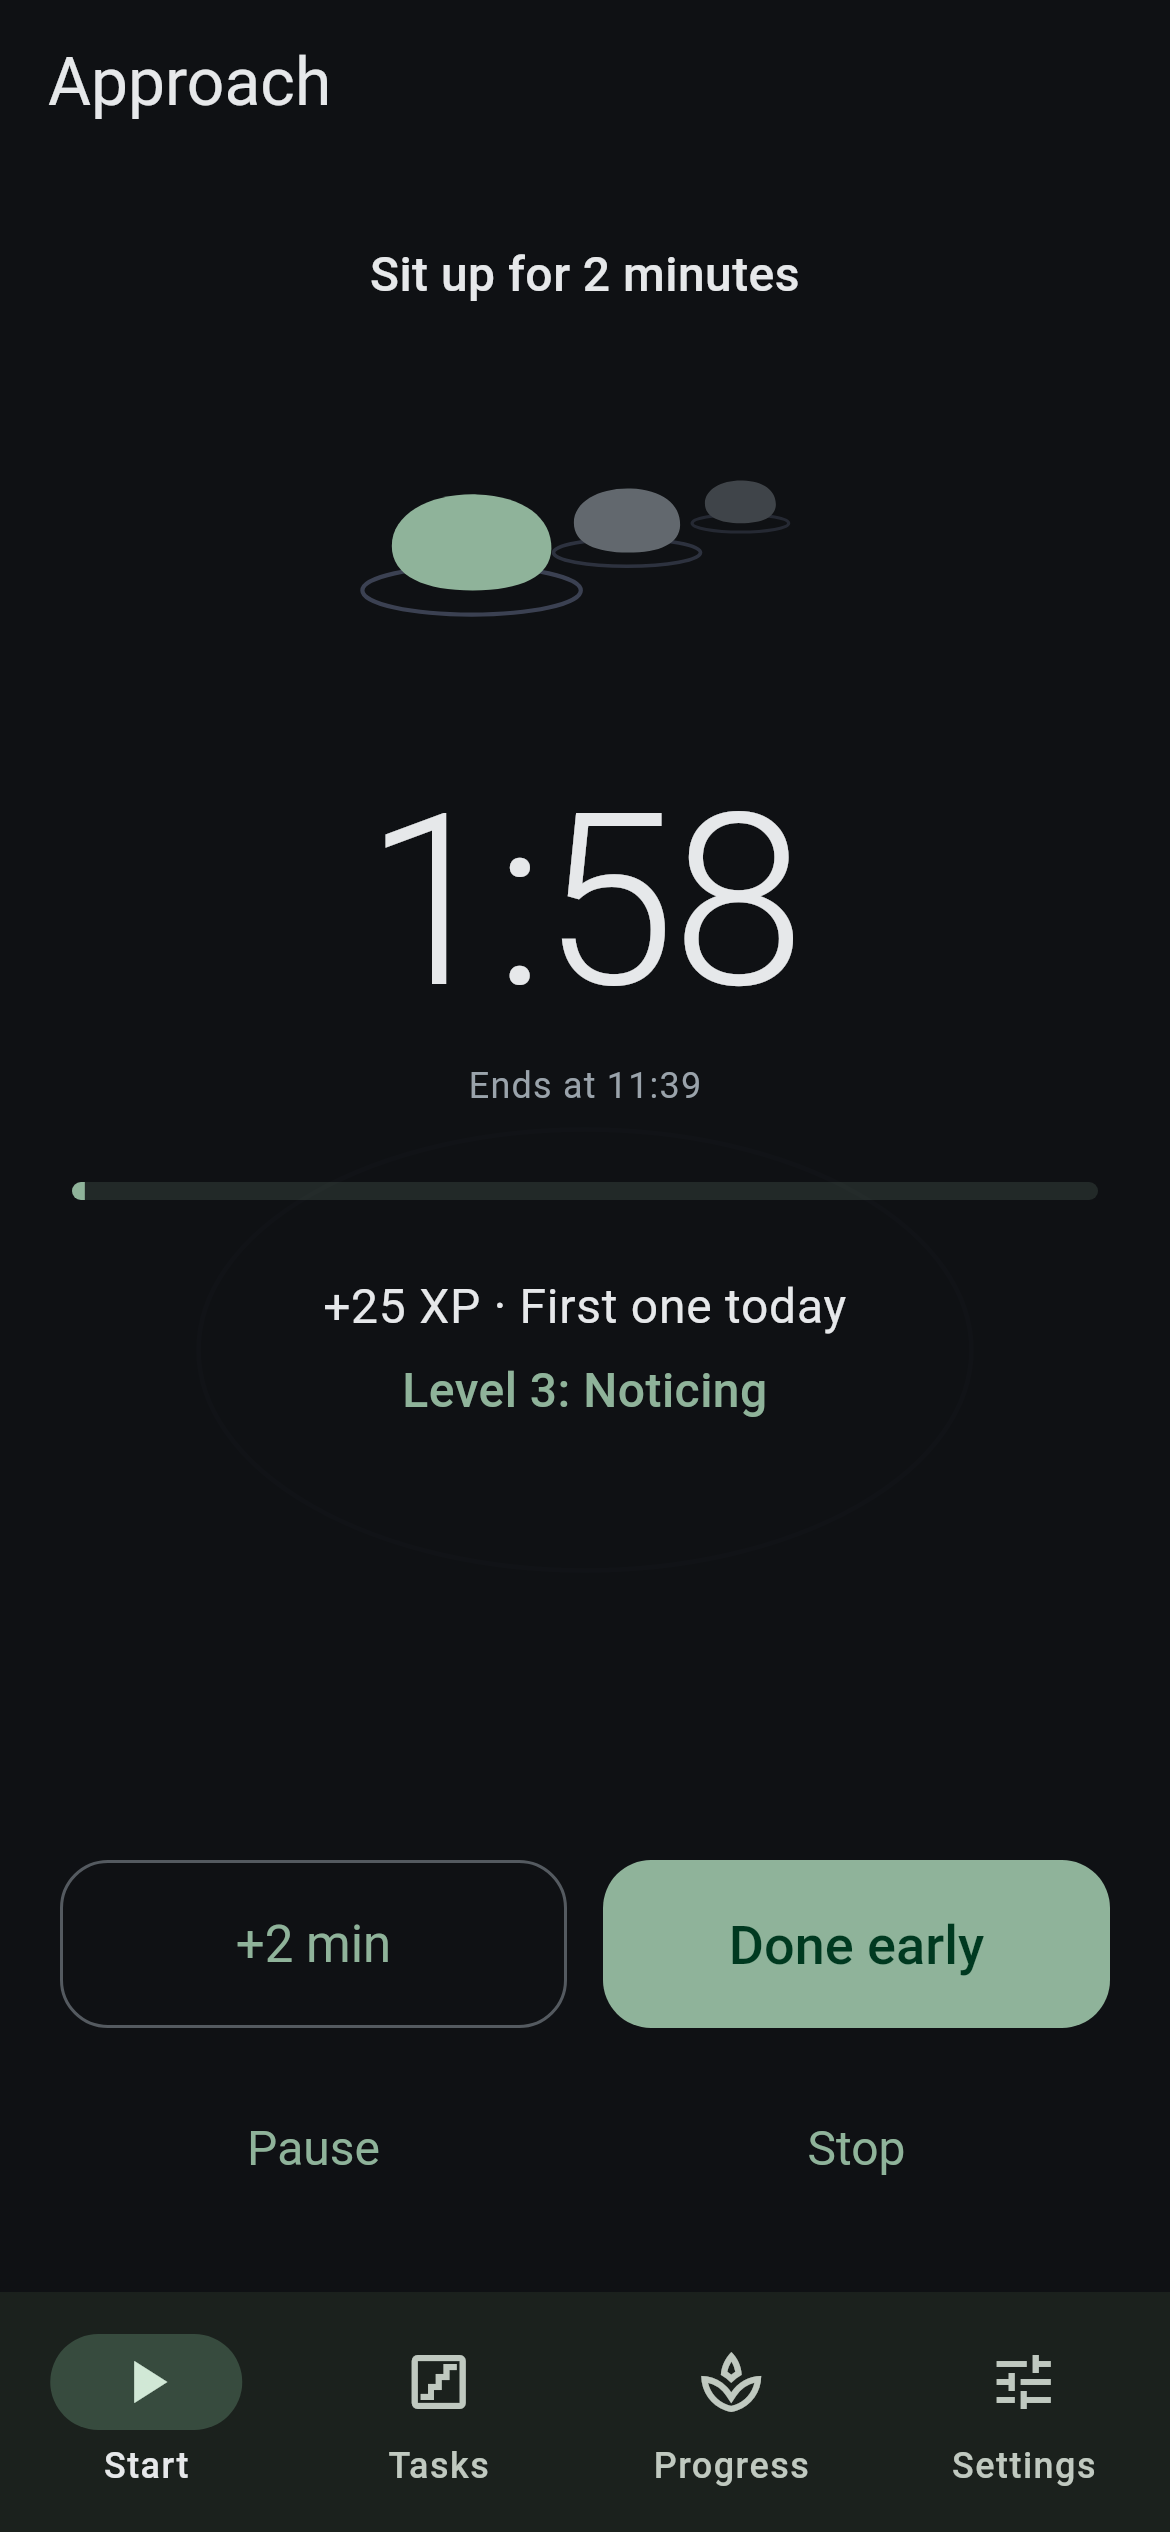
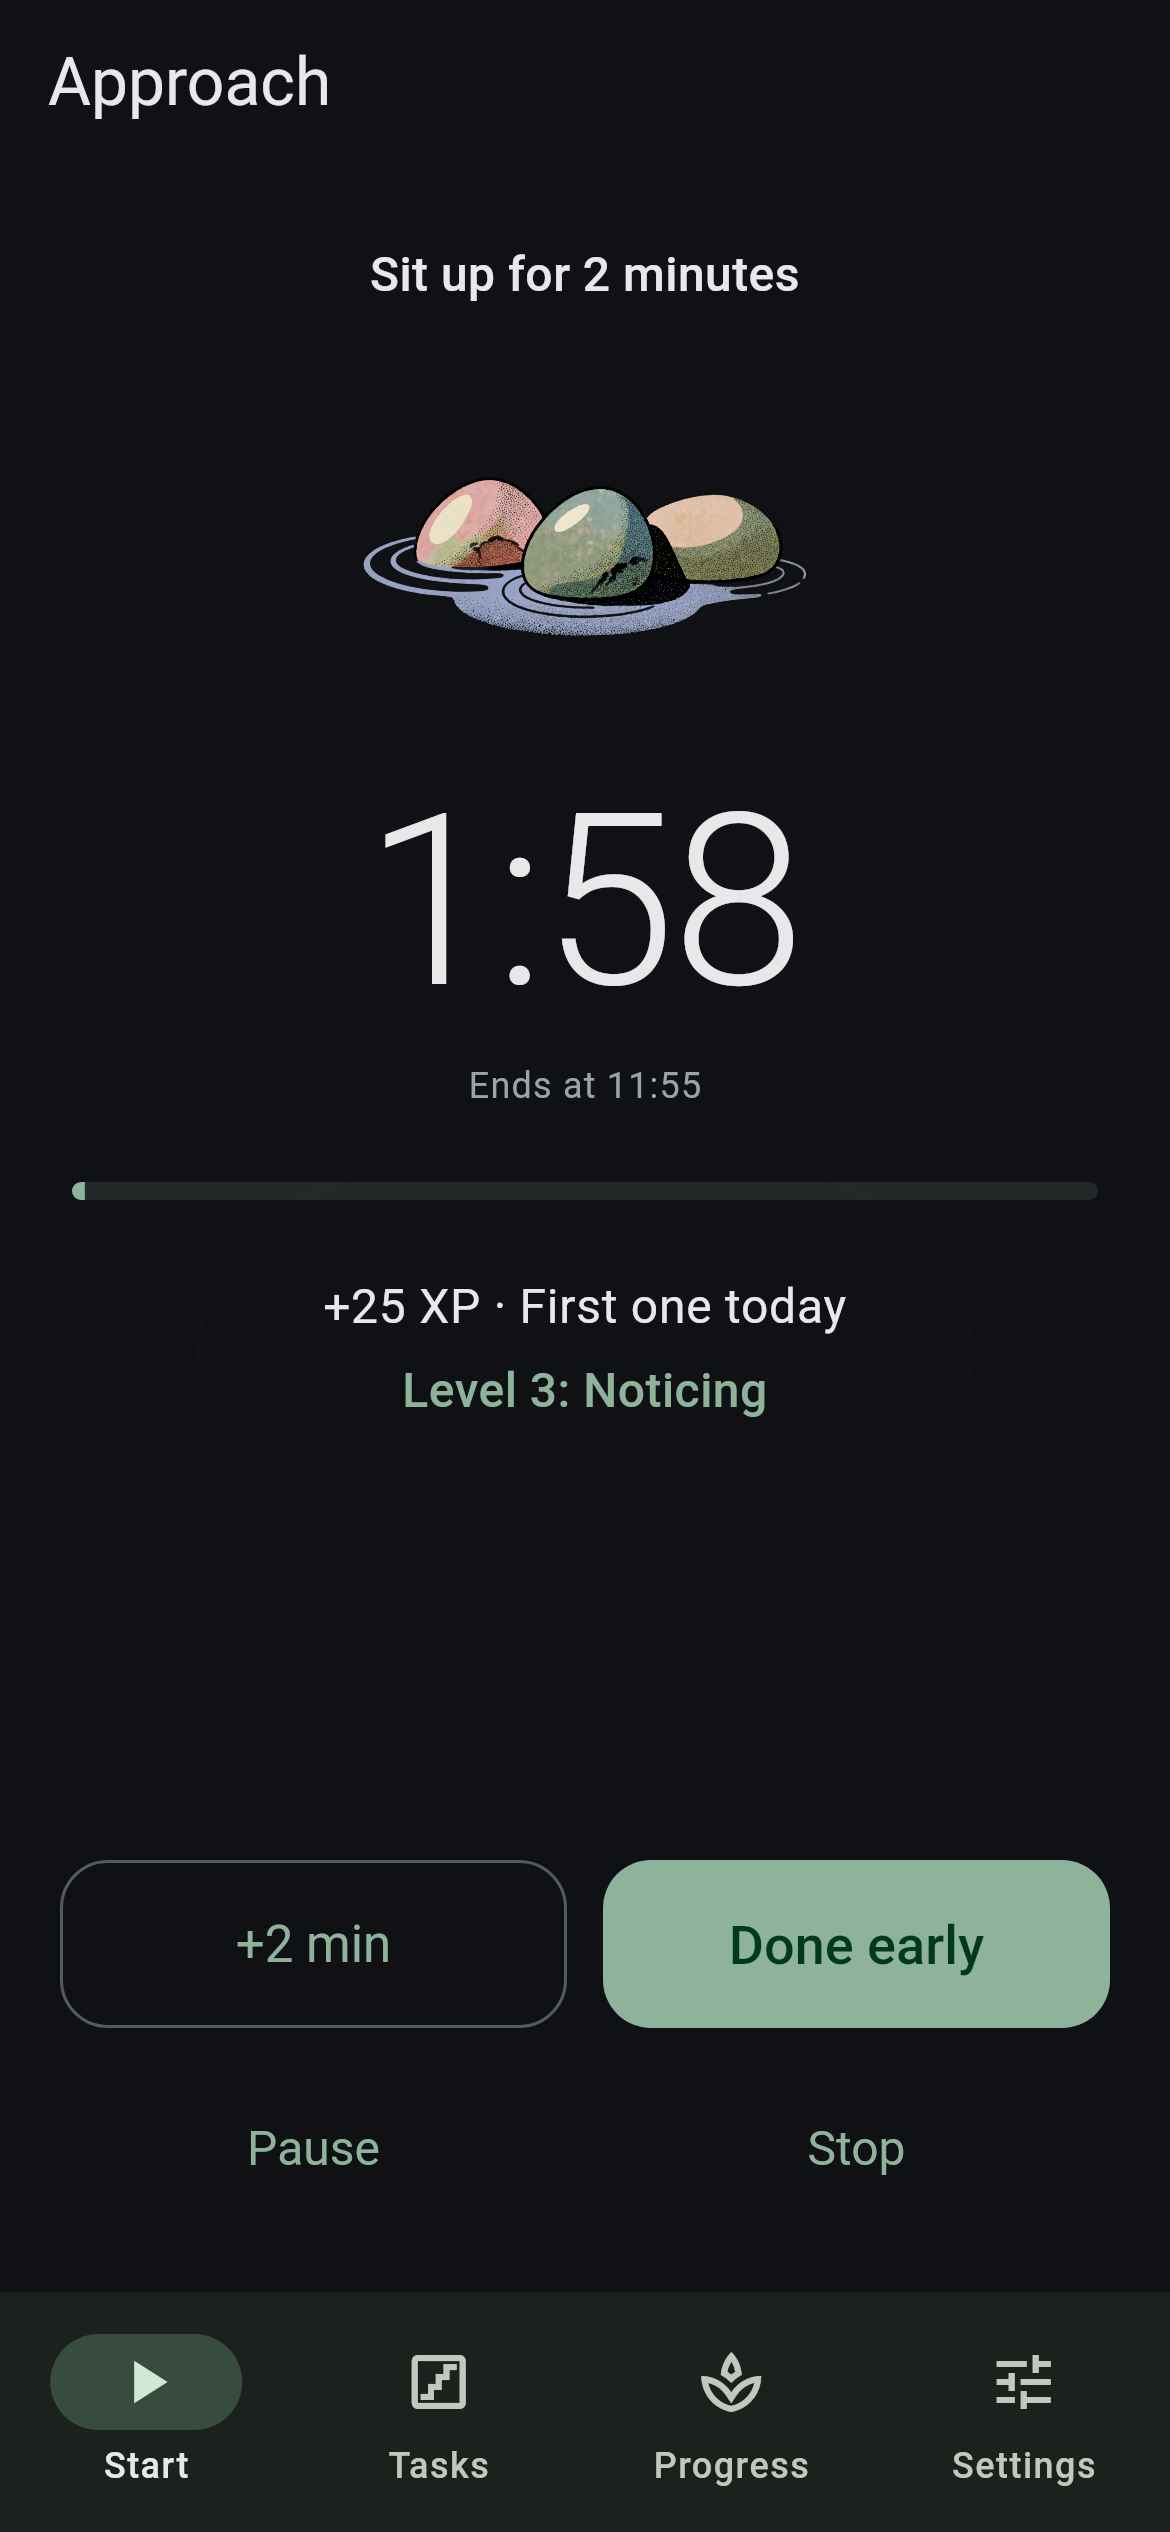
The running approach shows the painted pebbles
assets/images/pebbles.png, prepared by tool/brand/prepare_illustration.py
into the 3:2 illustration frame, replaces the vector path_ahead. Painted
illustrations keep their own colours on both themes.

Claude-Session: https://claude.ai/code/session_01PaoFeeh7YunX14WNd6GfeR

Changed region(s): [[0.3077, 0.1872, 0.6769, 0.2496]]

diff --git a/lib/ui/widgets/illustration.dart b/lib/ui/widgets/illustration.dart
@@ -17,8 +17,8 @@ enum Illustration {
   /// when a rest completes.
   stoneDawn('stone_dawn', 'A stone in still water with soft light on the horizon'),
 
-  /// A near stone and two further ones. The running approach.
-  pathAhead('path_ahead', 'Stepping stones leading away across still water'),
+  /// Three painted pebbles stepping away across water. The running approach.
+  pathAhead('path_ahead', 'Three pebbles stepping away across still water', raster: true),
 
   /// A thin moon over water, no stone. The running rest.
   restMoon('rest_moon', 'A thin moon over still water'),
@@ -45,14 +45,16 @@ enum Illustration {
   final String description;
   final String folder;
 
-  /// A PNG rather than an SVG (the icon is painted, not drawn in code).
+  /// A painted PNG rather than a vector. Paintings carry their own colours
+  /// (and an outline that reads on both backgrounds), so one file serves
+  /// both themes; see `tool/brand/prepare_illustration.py`.
   final bool raster;
 
   String get assetPath => 'assets/$folder/$file.${raster ? 'png' : 'svg'}';
 
-  /// The mark carries its own background, so it keeps the brand colours
-  /// whatever the theme. Everything else follows the theme.
-  bool get followsTheme => this != Illustration.mark;
+  /// Vector illustrations are recoloured for the light theme. Paintings and
+  /// the mark keep their own colours.
+  bool get followsTheme => !raster;
 }
 
 /// Swaps the dark-theme authoring palette for the light theme's.

diff --git a/tool/brand/prepare_illustration.py b/tool/brand/prepare_illustration.py
@@ -1,0 +1,40 @@
+#!/usr/bin/env python3
+"""Fits a painted illustration into the app's 3:2 illustration frame.
+
+    python3 tool/brand/prepare_illustration.py <source.png> <name>
+
+Trims the transparent margin, pads to 3:2 with a little air (the same frame
+the SVG illustrations use), resizes to 1440 x 960 and writes
+assets/illustrations/<name>.png. The source keeps its own colours, so one
+file serves both themes; it is not run through the palette mapper.
+"""
+import sys
+from pathlib import Path
+
+from PIL import Image
+
+ROOT = Path(__file__).resolve().parents[2]
+OUT = ROOT / "assets" / "illustrations"
+W, H = 1440, 960
+AIR = 0.06  # fraction of the frame kept clear on every side
+
+
+def main() -> int:
+    src, name = sys.argv[1], sys.argv[2]
+    im = Image.open(src).convert("RGBA")
+    box = im.getchannel("A").point(lambda v: 255 if v > 8 else 0).getbbox()
+    art = im.crop(box) if box else im
+    inner_w, inner_h = W * (1 - 2 * AIR), H * (1 - 2 * AIR)
+    scale = min(inner_w / art.width, inner_h / art.height)
+    art = art.resize((round(art.width * scale), round(art.height * scale)), Image.LANCZOS)
+    out = Image.new("RGBA", (W, H), (0, 0, 0, 0))
+    # Sit the artwork a touch below centre, like the SVGs' water line.
+    out.alpha_composite(art, ((W - art.width) // 2, min(H - art.height, (H - art.height) // 2 + H // 20)))
+    OUT.mkdir(parents=True, exist_ok=True)
+    out.save(OUT / f"{name}.png", optimize=True)
+    print(f"wrote {OUT / name}.png {out.size[0]}x{out.size[1]}")
+    return 0
+
+
+if __name__ == "__main__":
+    sys.exit(main())

diff --git a/docs/VISUALS.md b/docs/VISUALS.md
@@ -36,8 +36,10 @@ the nearest thing is fully opaque, the farthest is around 0.25.
 
 ## In-app illustrations
 
-All live in `assets/illustrations/`, `viewBox="0 0 240 160"`, no fixed `width`/`height`
-attributes. The water line sits at **y = 104** unless the brief says otherwise; everything
+All live in `assets/illustrations/`. A painted one is a PNG prepared by
+`tool/brand/prepare_illustration.py` (trimmed, padded to 3:2, 1440 × 960, its own colours on
+both themes). The vector ones are SVGs with `viewBox="0 0 240 160"` and no fixed
+`width`/`height` attributes. The water line sits at **y = 104** unless the brief says otherwise; everything
 rests on or above it. Keep 12 px of air on every side. One subject, centred or slightly
 left of centre. At most three palette colours per file.
 
@@ -50,7 +52,7 @@ than the full width.
 |--------------------|----------------------------------------------------|---------------------------------------------------------------------|
 | `stone_still.svg`  | Start tab, above the one-tap button                | One stone, still water, one faint ring. Nothing is required of you. |
 | `stone_dawn.svg`   | Start tab after three or more quiet days; rest complete | The same stone with soft light low on the horizon. Good to see you. |
-| `path_ahead.svg`   | Running approach                                   | A near stone, two further ones fading away. Being near the thing.  |
+| `path_ahead.png`   | Running approach                                   | Three painted pebbles stepping away (from `assets/images/pebbles.png`). Being near the thing. |
 | `rest_moon.svg`    | Running rest                                       | A thin moon over still water, no stone. Rest is the method too.    |
 | `ripple_done.svg`  | Approach complete                                  | The stone with two rings spreading from it. That counted.          |
 | `stones_empty.svg` | Tasks tab with no tasks                            | Three small stones in a loose line going away. Pick one up.        |
